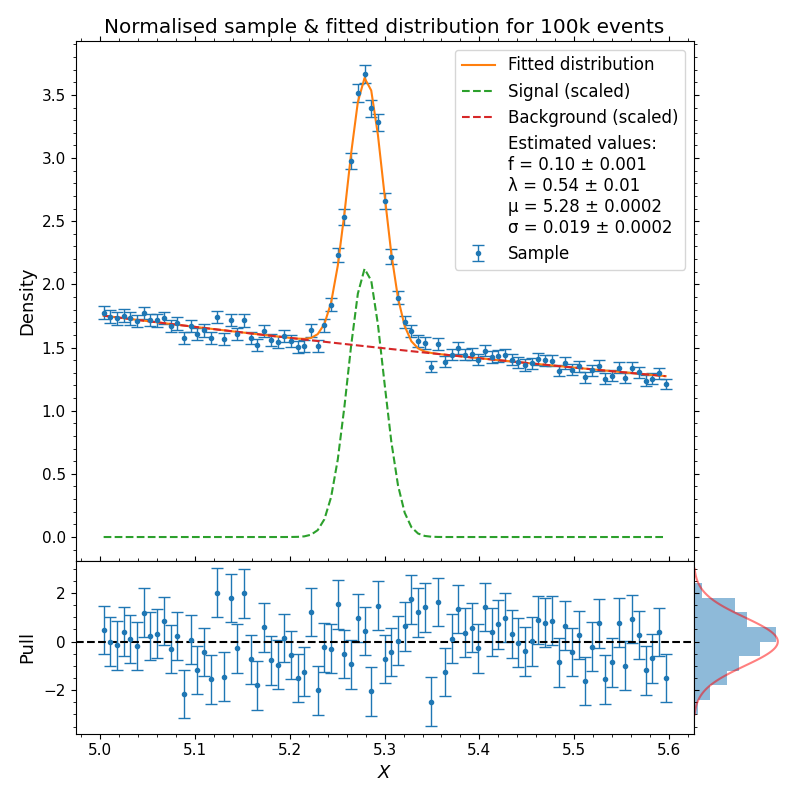
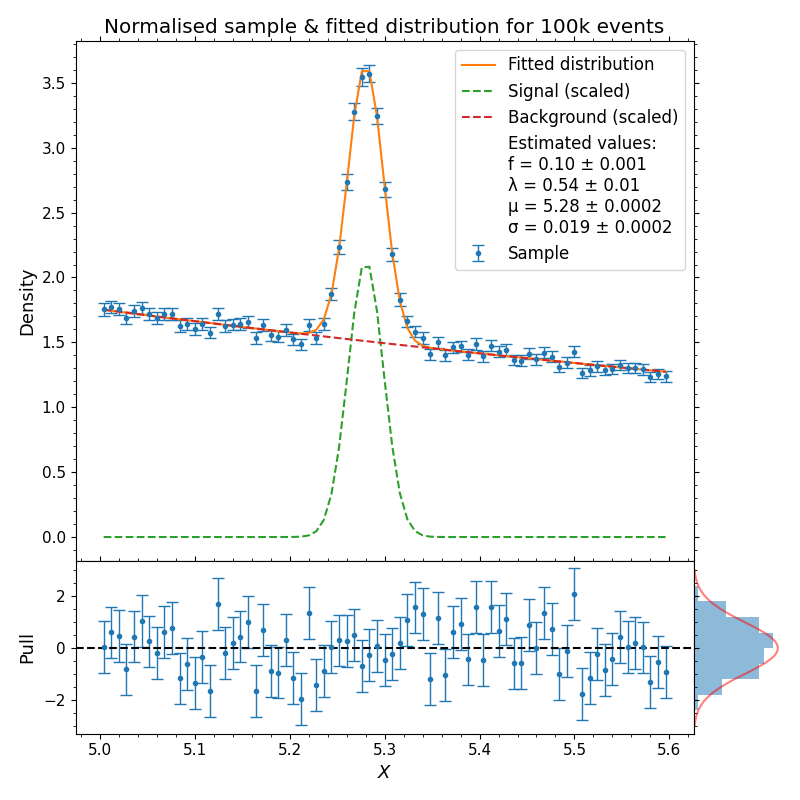
aesthetics

diff --git a/src/solve_part_e.py b/src/solve_part_e.py
@@ -4,9 +4,9 @@ import matplotlib.pyplot as plt
 import numpy as np
 from iminuit import Minuit
 from iminuit.cost import UnbinnedNLL
-plt.style.use('src/utils/mphil.mplstyle')
 import matplotlib.gridspec as gs
 from numba_stats import norm
+plt.style.use('src/utils/mphil.mplstyle')
 
 # *************************************************************************************************************
 # ******************************************** Generate the sample ********************************************
@@ -32,7 +32,7 @@ sg = 0.018
 theta = [f, lam, mu, sg]
 
 # generate sample - note that using the analytical pdf is fastest
-sample = accept_reject(f=lambda x: af.pdf(x, *theta), xlim=[α, β], samples=100000)
+sample = accept_reject(f=lambda x: af.pdf(x, *theta), xlim=[α, β], samples=100_000)
 
 # *************************************************************************************************************
 # *********************************************** Fit the sample **********************************************
@@ -64,7 +64,7 @@ est = mi.values
 # *************************************************************************************************************
 
 # create histogram
-bins = 85
+bins = 75
 y, x = np.histogram(sample, bins=bins, range=[α, β])
 bin_width = x[1] - x[0]
 

diff --git a/src/solve_part_c.py b/src/solve_part_c.py
@@ -1,10 +1,3 @@
-####################################################################################################
-# Code these expressions for the probability density in python, in any way you so                  #
-# desire. Plugging in some different values for the parameters 𝜽, use a numerical                  #
-# integration to convince yourself that the total probability density integrates to unity          #
-# in the range 𝑀 ∈ [5, 5.6].                                                                       #
-####################################################################################################
-
 from utils.distributions import analyticalImplementation, numbaImplementation, scipyImplementation
 from scipy.integrate import quad
 
